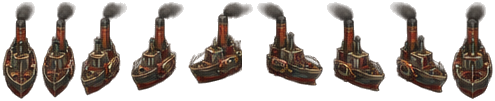
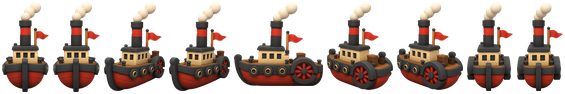
Toy-style Galleon and Ironclad Steamer: all seven hulls now in the new style
Claude-Session: https://claude.ai/code/session_01FCp3PwgtusK1H34abZ7FvQ

diff --git a/CLAUDE.md b/CLAUDE.md
@@ -2712,8 +2712,12 @@ quests/NPCs/dialogue, cosmetics, audio beyond hooks, any backend.
   472/472.
 - Skiff, Junk and Catamaran done the same way (same day). The cutter
   now retries smaller dilations when two views sit close together.
-- **Next up:** the last two hulls the same way (Ironclad Steamer,
-  Galleon) once the owner has their 5-view sets.
+- Ironclad Steamer and Galleon done the same way: all 7 player hulls
+  (and every enemy ship built on them) are now the toy-render style.
+- **Next up:** creatures and bosses in the same style (3 of ~10 bosses
+  done), then buildings and icons, per the batch brief given to the
+  owner (A bosses, B buildings/towers, C pickups, D weapon icons, E
+  upgrade icons, F landmarks).
 
 - **Phase:** the crowd (owner playtest 2026-10-06 with shop upgrades: dev
   sliders at ×4 enemies and ×4 spawn speed "felt good", stage 1 won
